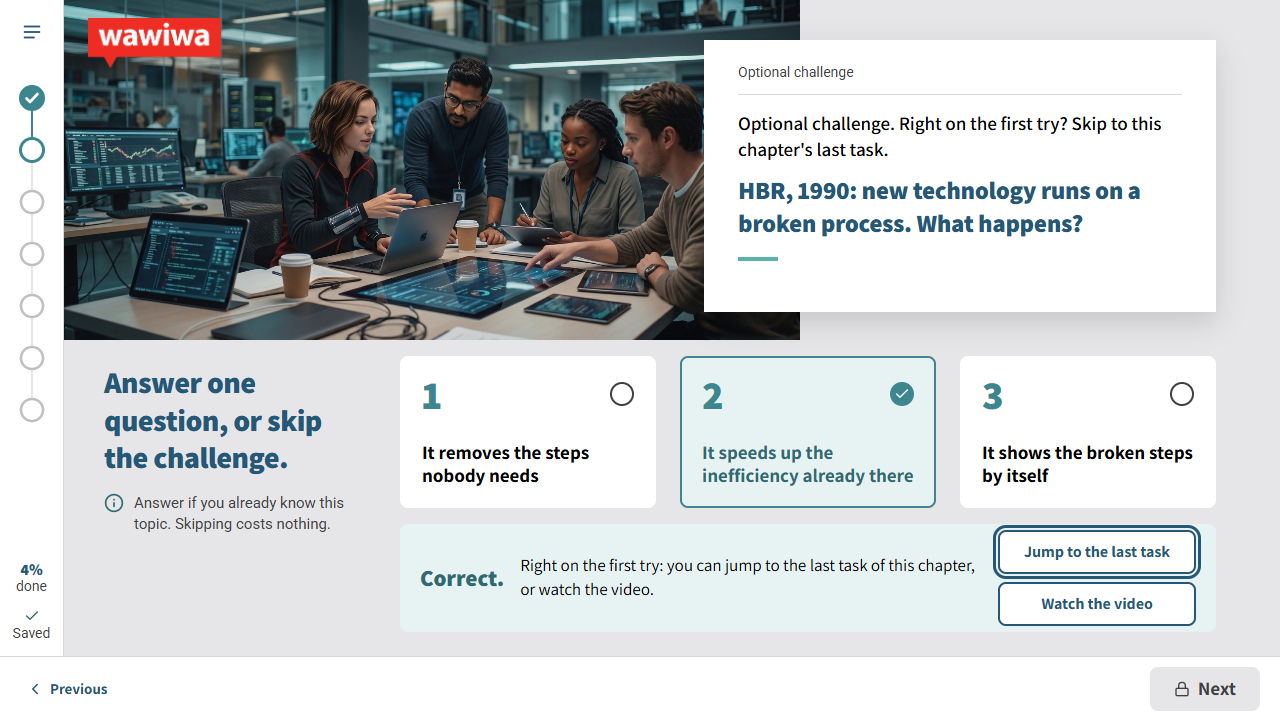
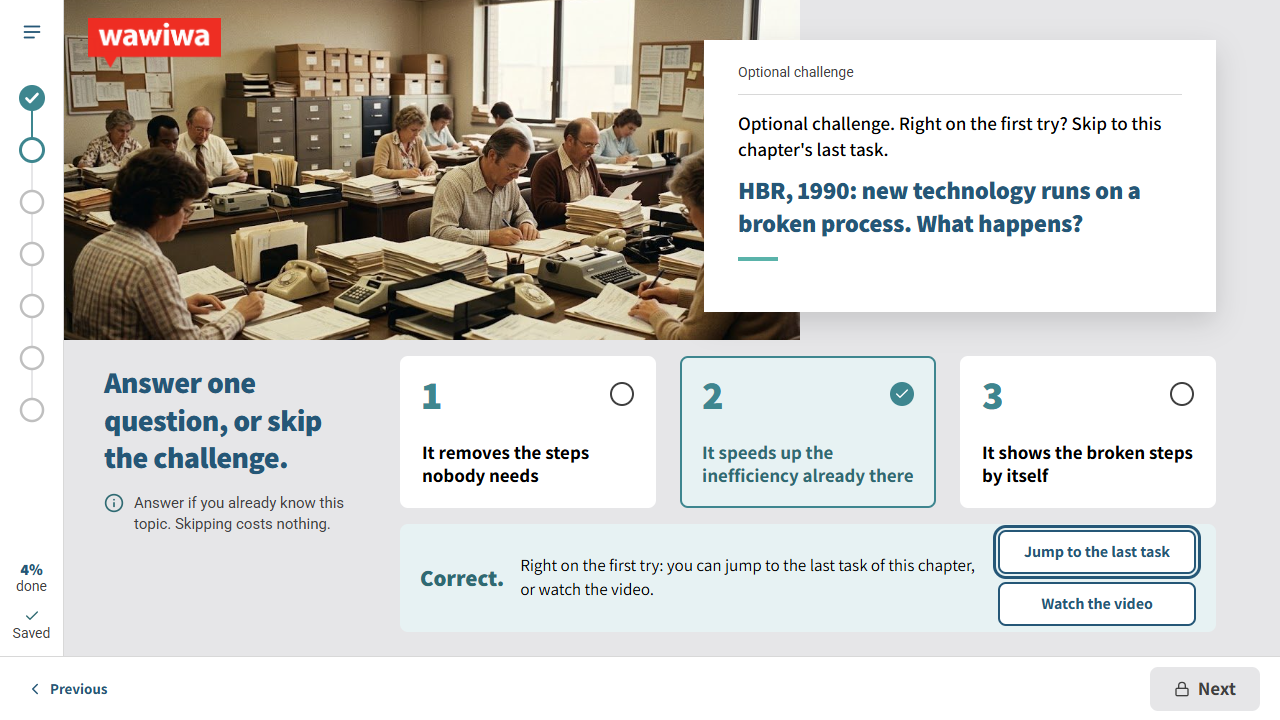
EAI L4: real images (S01 dana.jpg, FT1 ft1.jpg), module-sized image set, SOURCES.md

Changed region(s): [[0.0312, 0.0, 0.625, 0.4889]]

diff --git a/enterprise-ai-implementation/eai-m1l4-selfstudy/assets/img/SOURCES.md b/enterprise-ai-implementation/eai-m1l4-selfstudy/assets/img/SOURCES.md
@@ -1,0 +1,23 @@
+# Image sources: EAI M1 L4 self-study
+
+Every image here is AI-generated: no real person's likeness, every character is fictional and labelled "Fictional character" in the module. Style: `planning/IMAGE STYLE.md`.
+
+All images below were generated by Noy with Gemini, from the storyboard **Image** line of their screen (the exact prompt text lives in the storyboard). Delivered 18 Oct 2026; processed for the module the same day: max 1600 px on the long side, JPG quality 82 (optimized, progressive). The unprocessed originals are kept locally in `assets/img/_originals/` (not committed).
+
+| File | Screen | Size in the module | Processing | Used in the module |
+|---|---|---|---|---|
+| `dana.jpg` | S01 (Dana, HR director, fictional) | 1289 x 1600 | resized from 1856 x 2304 | S01 image (`temp: false`); face reference for later Dana images |
+| `ft1.jpg` | FT1 | 1024 x 572 | recompressed | FT1 image (`temp: false`) |
+| `ft2.jpg` | FT2 | 1024 x 572 | recompressed | not yet (FT2 is not in the slice) |
+| `ft3.jpg` | FT3 | 1024 x 572 | recompressed | not yet |
+| `ft4.jpg` | FT4 | 1024 x 572 | recompressed | not yet |
+| `s14.jpg` | S14 | 825 x 1024 | recompressed | not yet |
+| `s15.jpg` | S15 | 825 x 1024 | recompressed | not yet |
+| `s18.jpg` | S18 | 825 x 1024 | recompressed | not yet |
+| `s19.jpg` | S19 | 825 x 1024 | recompressed | not yet (S19 is a placeholder until P3) |
+| `s22.jpg` | S22 | 406 x 507 | came out landscape (825 x 507): cropped to vertical 4:5 around the person (x 197 to 603) | not yet |
+
+Other image files:
+- `temp/ref-team-meeting.jpg`, `temp/ref-video-case-1.jpg`: Claude Design board references, still used by the S03 case stills (`temp: true`) until the V1 video images replace them.
+- `refs/style-office-team.jpg`: style reference for the generator.
+- `prompts/`: draft prompts per slot written in P1.5 (S01 and FT1 now point to the images above).

diff --git a/enterprise-ai-implementation/eai-m1l4-selfstudy/assets/img/prompts/FT1-dana-team-table.md b/enterprise-ai-implementation/eai-m1l4-selfstudy/assets/img/prompts/FT1-dana-team-table.md
@@ -1,5 +1,7 @@
 # FT1: Dana's team at the table (Lesson 4, fast-track challenge)
 
+> **In use since 18 Oct 2026: `assets/img/ft1.jpg`** (an early-1980s accounts office), generated by Noy with Gemini from the storyboard Image line, not from this prompt (see `assets/img/SOURCES.md`). This file is kept as the earlier draft prompt.
+
 Slot: FT1 `image` (layout memo, image 736 x 340 px top left, object-fit cover; the memo card covers the right edge of the image from x 640). Screen moment: an optional challenge card (not from Dana) asks about new technology on a broken process; in the photo, Dana's team weighs a quick fix against looking at how the work flows.
 Character: Dana, HR director (fictional), a woman in her mid 40s. Same description as S01. Once `assets/img/dana.jpg` is approved, pass it as the face reference so she stays the same person.
 Use with: --aspect 16:9 --ref assets/img/refs/style-office-team.jpg (style only) [--ref assets/img/dana.jpg once approved]

diff --git a/enterprise-ai-implementation/eai-m1l4-selfstudy/assets/img/prompts/S01-dana-team-meeting.md b/enterprise-ai-implementation/eai-m1l4-selfstudy/assets/img/prompts/S01-dana-team-meeting.md
@@ -1,5 +1,7 @@
 # S01: Dana with her team (Lesson 4, entry decision)
 
+> **In use since 18 Oct 2026: `assets/img/dana.jpg`**, generated by Noy with Gemini from the storyboard Image line, not from this prompt (see `assets/img/SOURCES.md`). This file is kept as the earlier draft prompt.
+
 Slot: S01 `image` (layout editorial, image column 460 x 592 px, object-fit cover). Screen moment: Dana, HR director (fictional), brings the team a request: about 90 HR requests a month, most of them repeat questions, and she wants a chatbot on the HR inbox by next month.
 Character: Dana, HR director (fictional), a woman in her mid 40s. Same description in FT1. Once `assets/img/dana.jpg` is approved, pass it as the face reference so she stays the same person.
 Use with: --aspect 4:5 --ref assets/img/refs/style-office-team.jpg (style only) [--ref assets/img/dana.jpg once approved]
